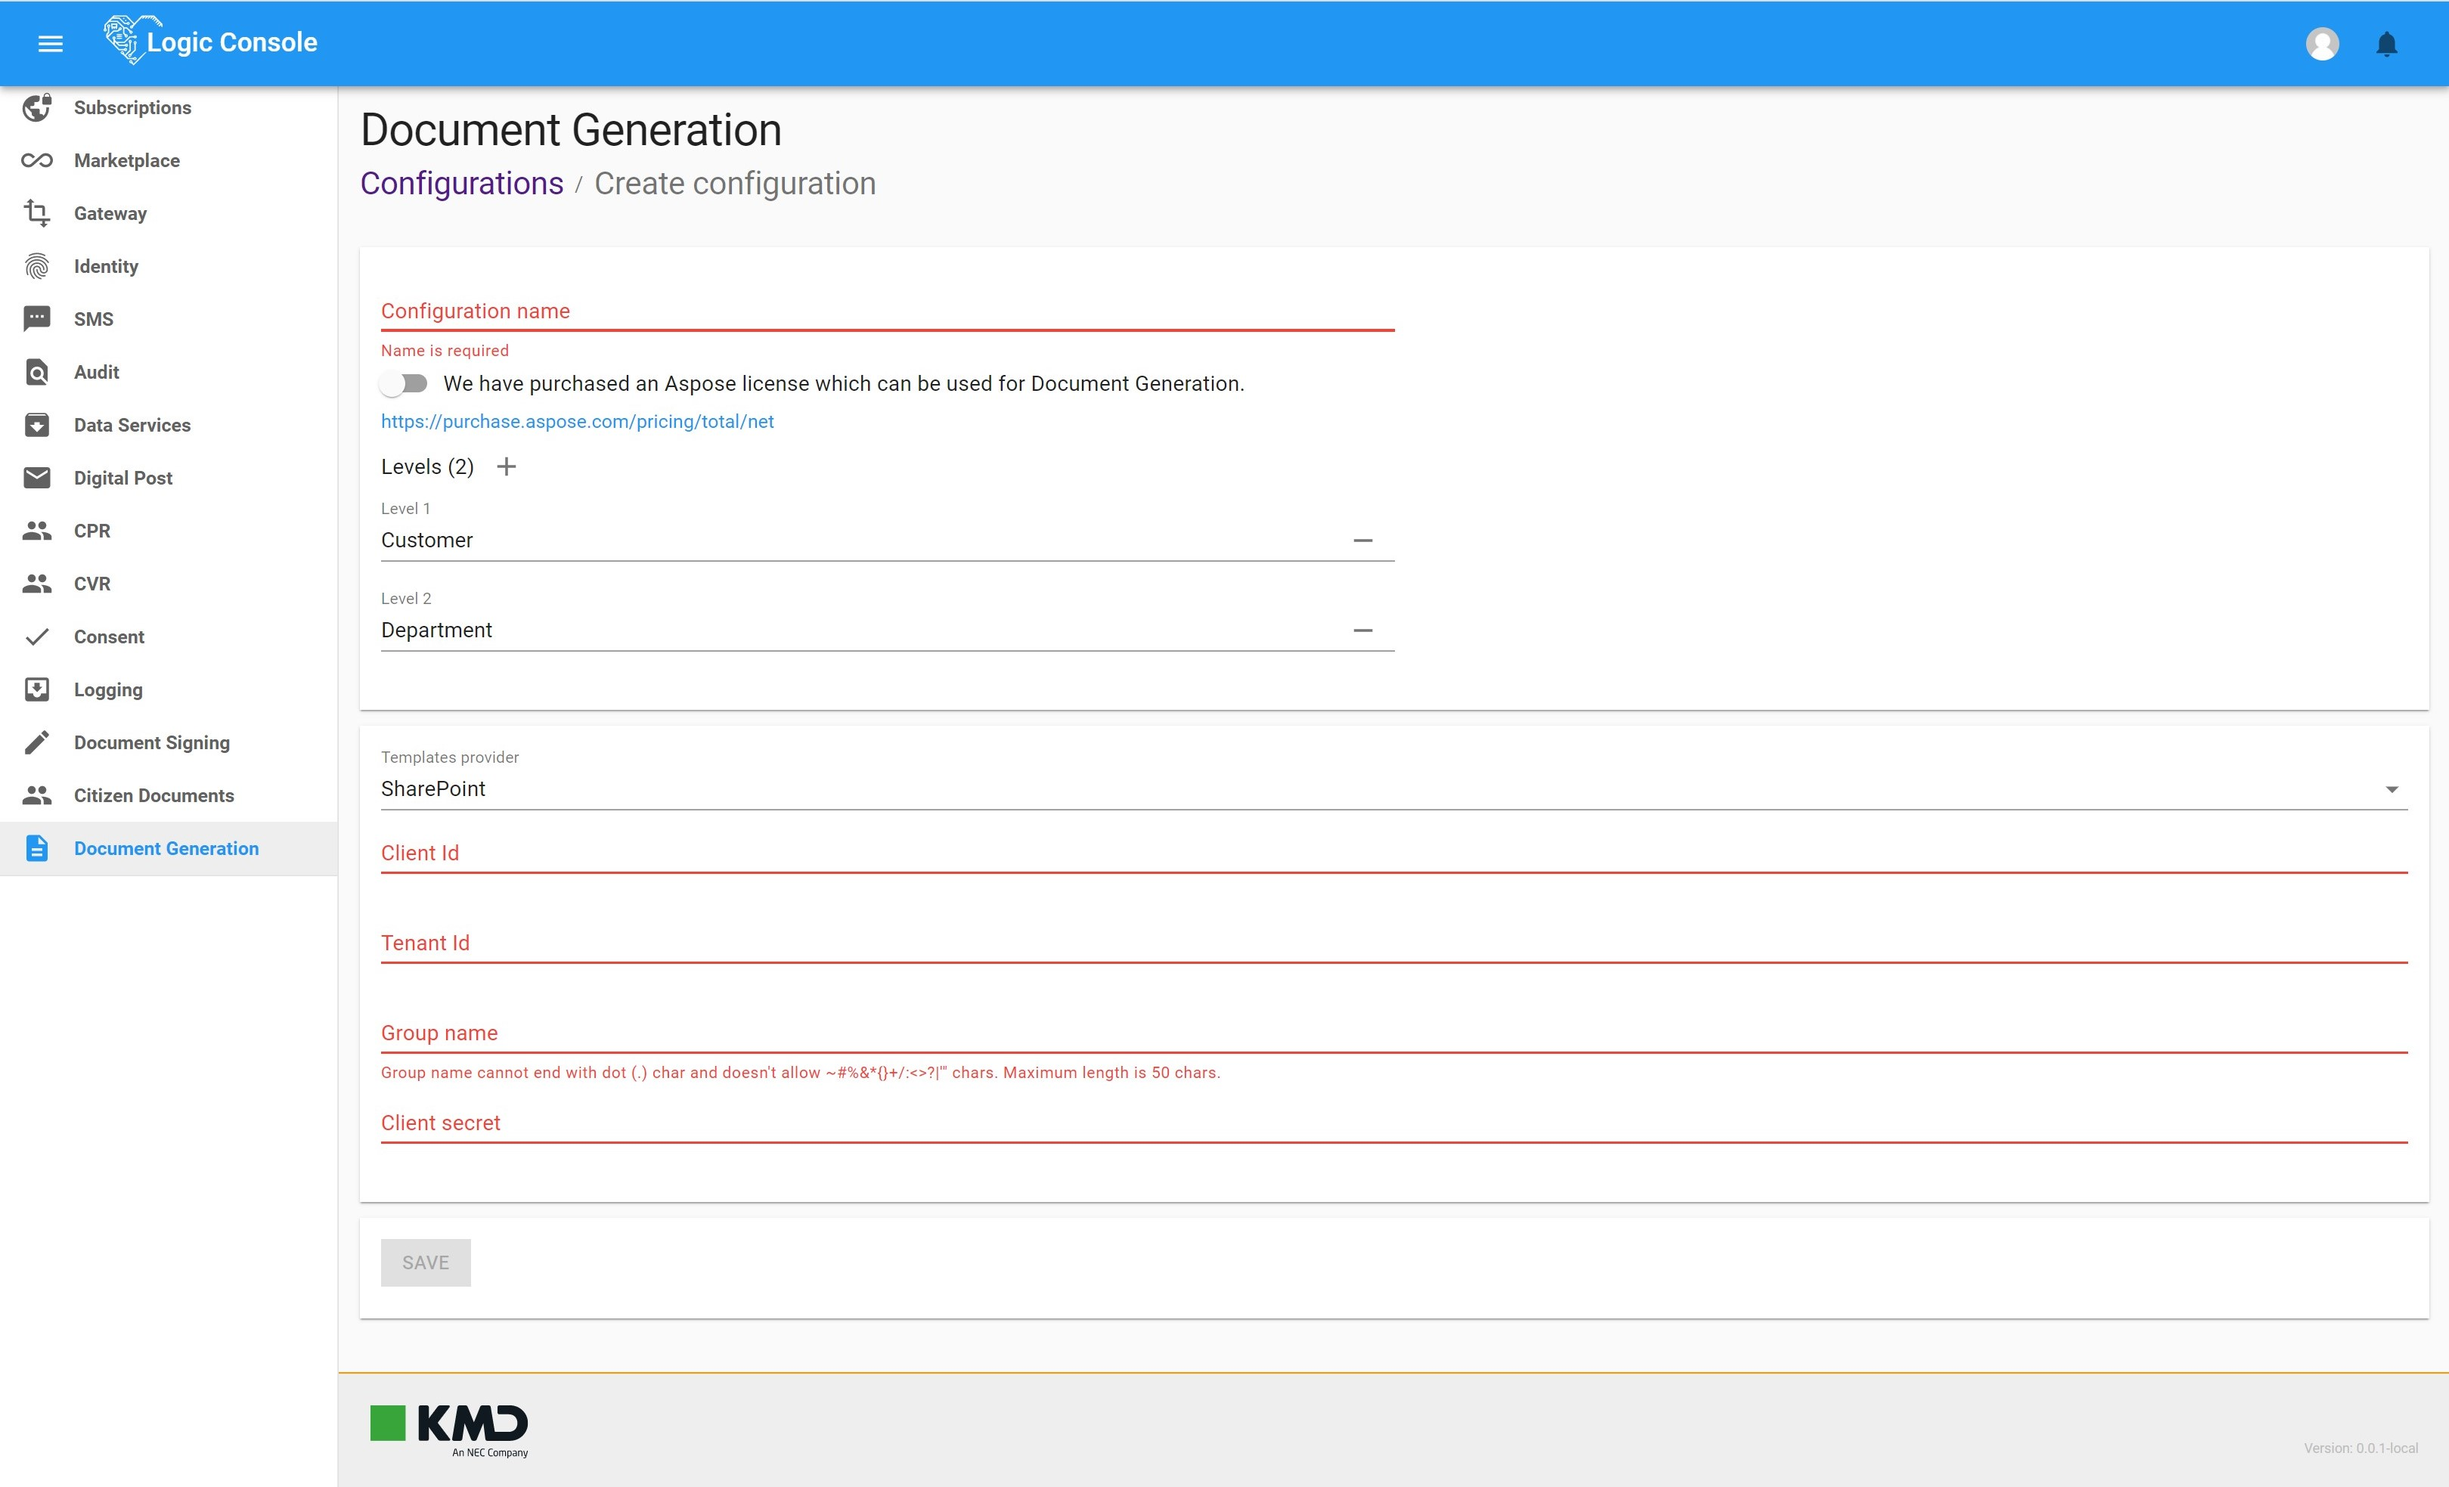
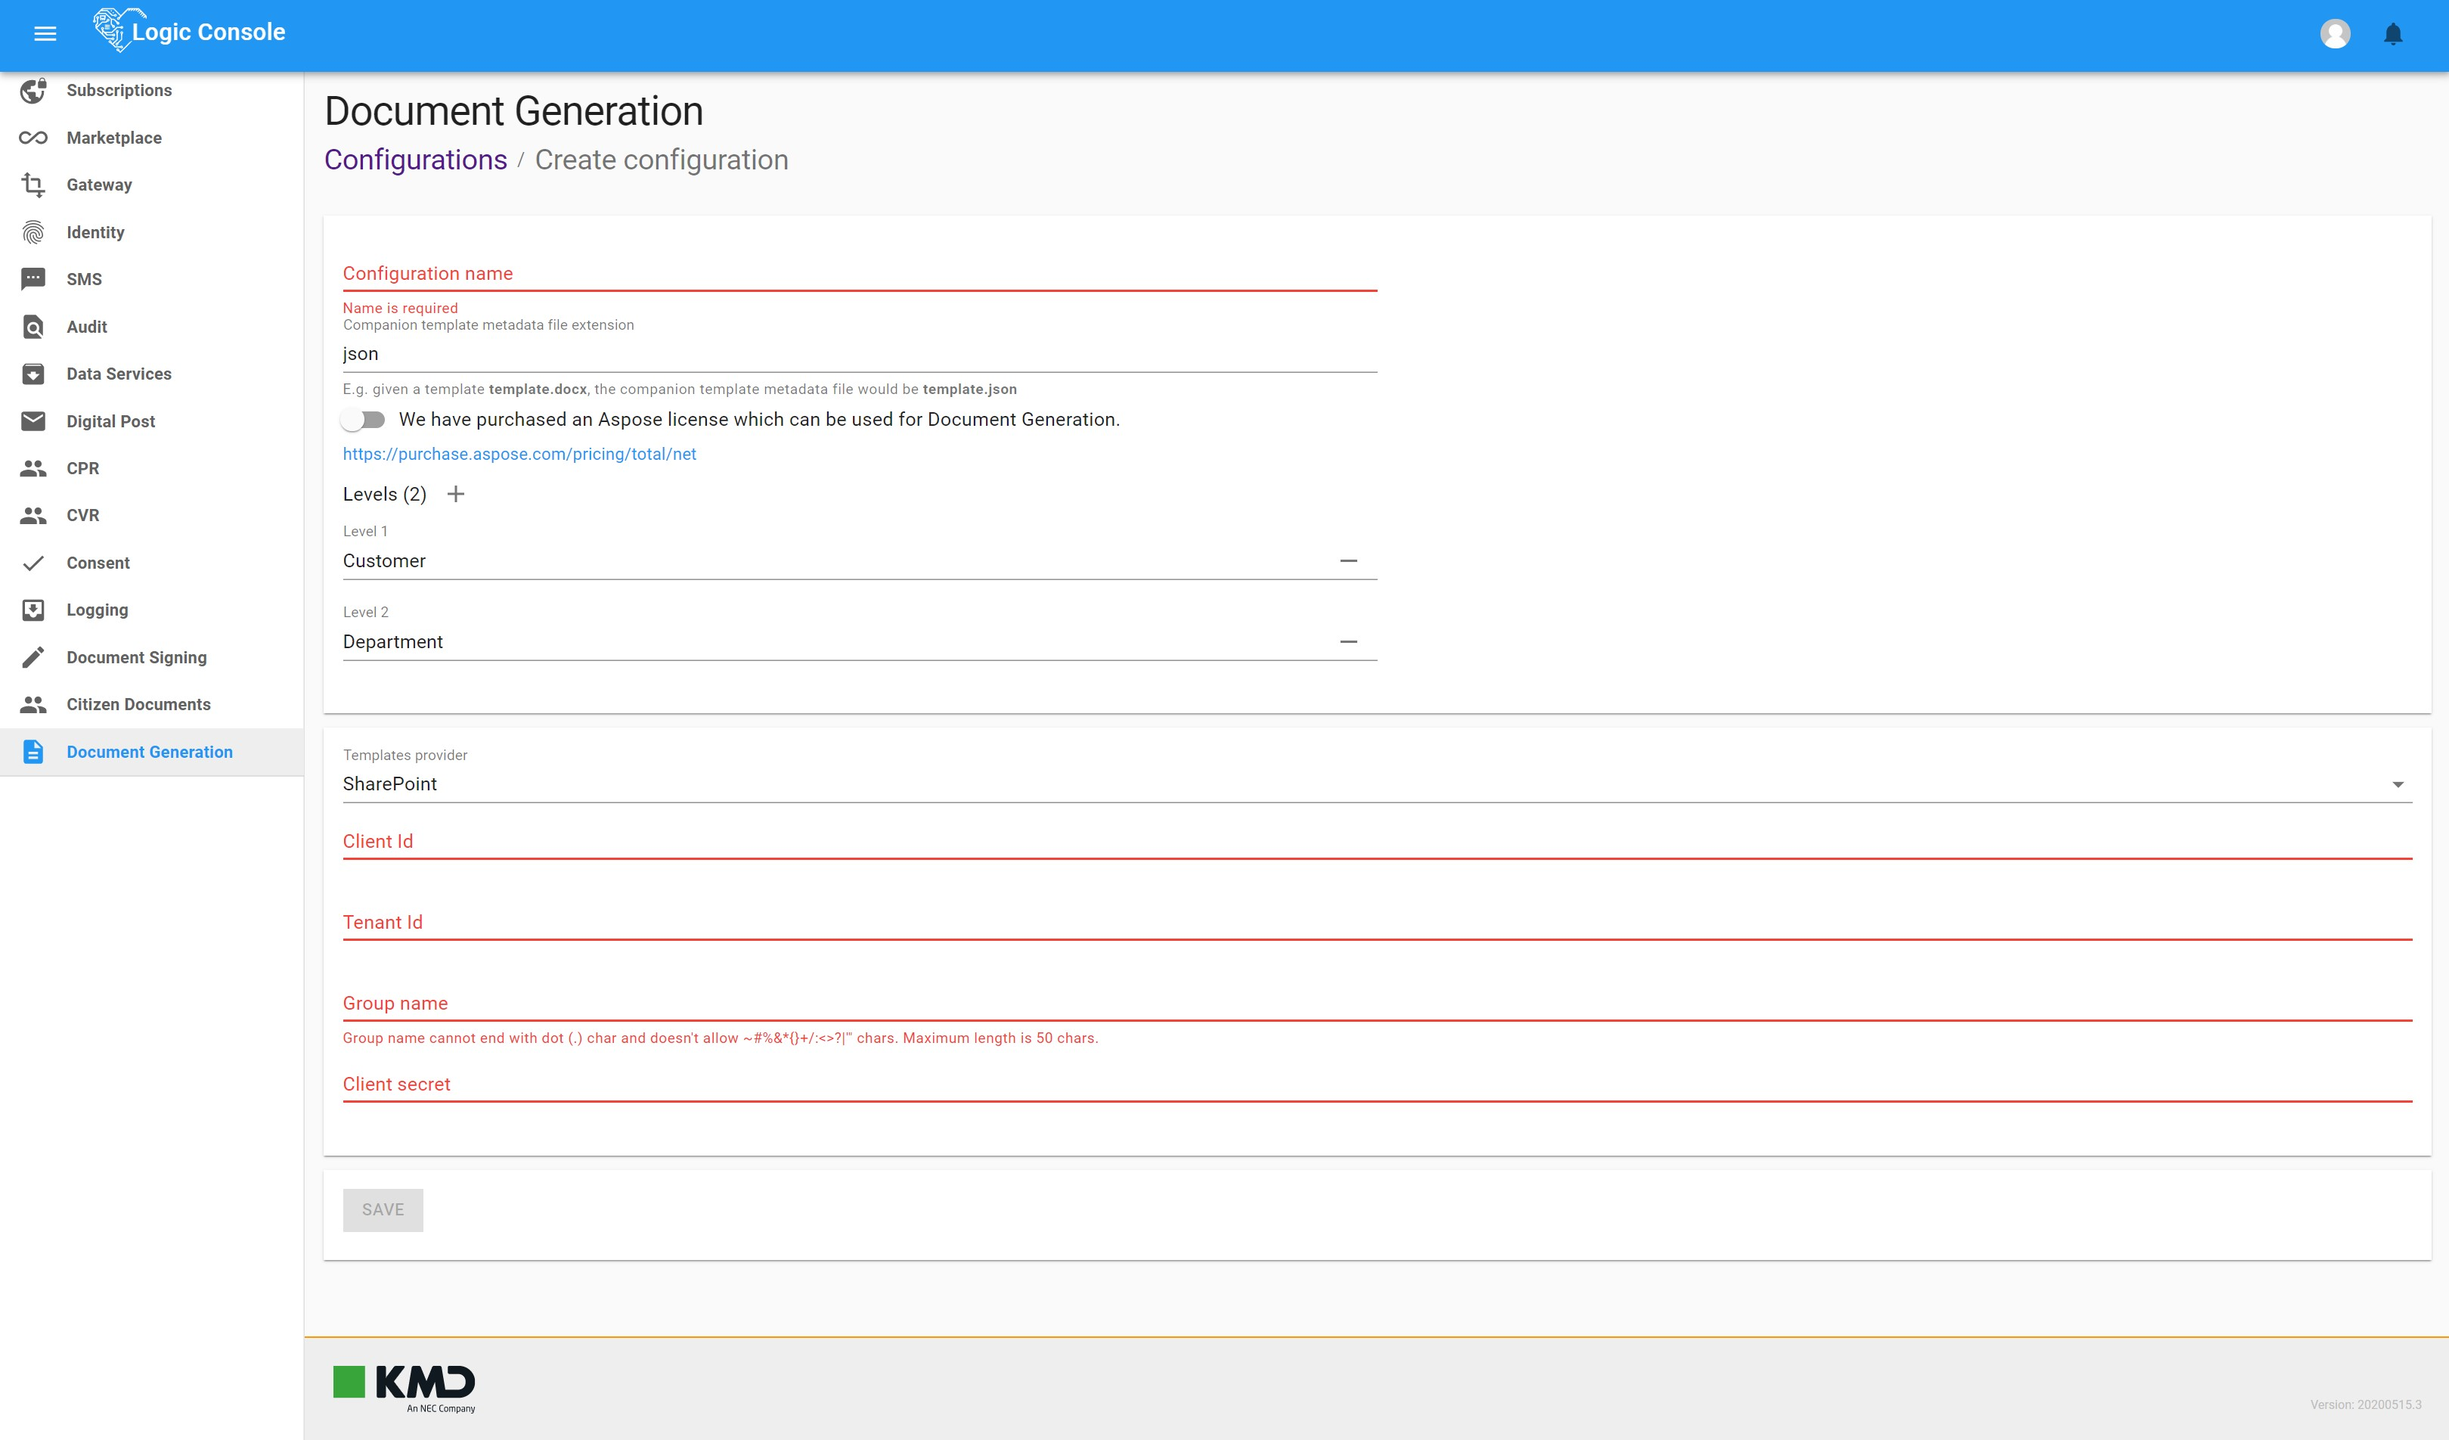
Update docs for new metadata field

diff --git a/docs/Configuration/Configuration.md b/docs/Configuration/Configuration.md
@@ -19,16 +19,22 @@ To create a Document Generation Configuration click on the `ADD CONFIGURATION` b
 
 You will be then presented with the following screen:
 
-![Image of Logic Console Create Document Generation Configuration screen](./assets/image003.jpg)
+![Image of Logic Console Create Document Generation Configuration screen](./assets/image003.jpg?v=2)
 
 The screen is divided in two sections, the `Configuration Settings` and the `Master Storage Settings`, we will explain them below in detail.
 
 ### Configuration Settings
 
-![Image of Logic Console Create Document Generation Configuration - Settings](./assets/image004.jpg)
+![Image of Logic Console Create Document Generation Configuration - Settings](./assets/image004.jpg?v=2)
 
 - Configuration name:  
 _(Required)_ The configuration name, any non-empty string is valid.
+
+- Companion template metadata file extension:  
+_(Default value)_ `json`.  
+_(Optional)_ The extension of the file in your template storage that will be used to pair your templates with their corresponding metadata.  
+E.g. given a template `template.docx`, the companion template metadata file would be `template.json`.  
+
 
 - ASPOSE license switch:  
 _(Required)_ In order to use `Logic Document Generation` your team needs to have a valid ASPOSE license. Toggle this switch on to acknowledge that.
@@ -112,12 +118,12 @@ _(Optional)_ Your Azure Blob Storage blob prefix.
 ### Persisting your changes
 After filling out the details for your configuration and its master storage the `Save` button underneath will get enabled, like so:
 
-![Image of Logic Console Create Document Generation Configuration - Completed](./assets/image007.jpg)
+![Image of Logic Console Create Document Generation Configuration - Completed](./assets/image007.jpg?v=2)
 
 Just click the `Save` button and you'll be all set.
 
 
-![Image of Logic Console Create Document Generation Configuration - Edit mode](./assets/image008.jpg)
+![Image of Logic Console Create Document Generation Configuration - Edit mode](./assets/image008.jpg?v=2)
 
 
 ## Configuration entries
